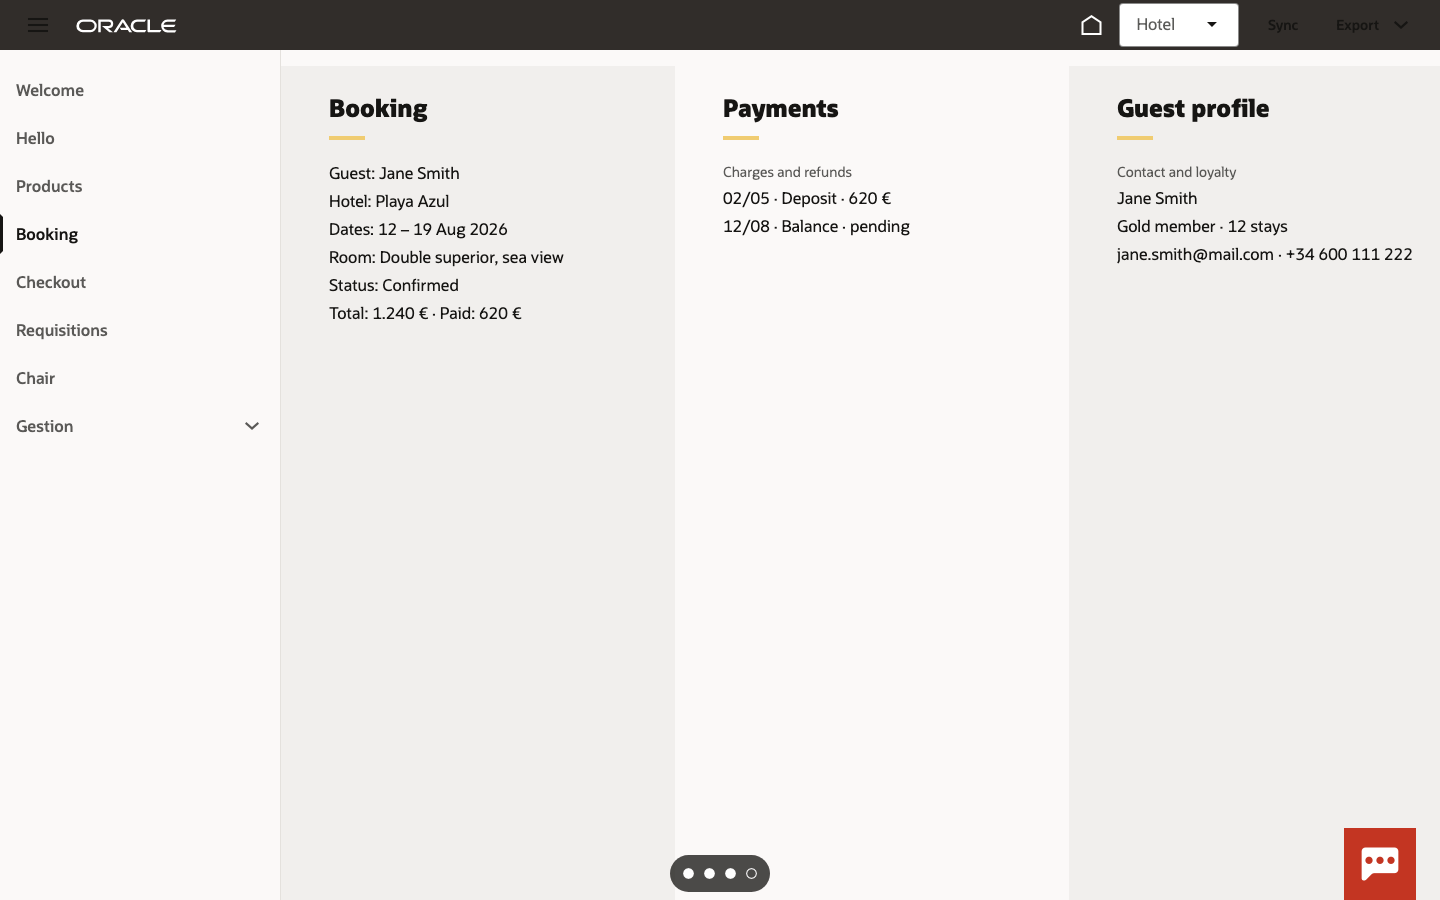
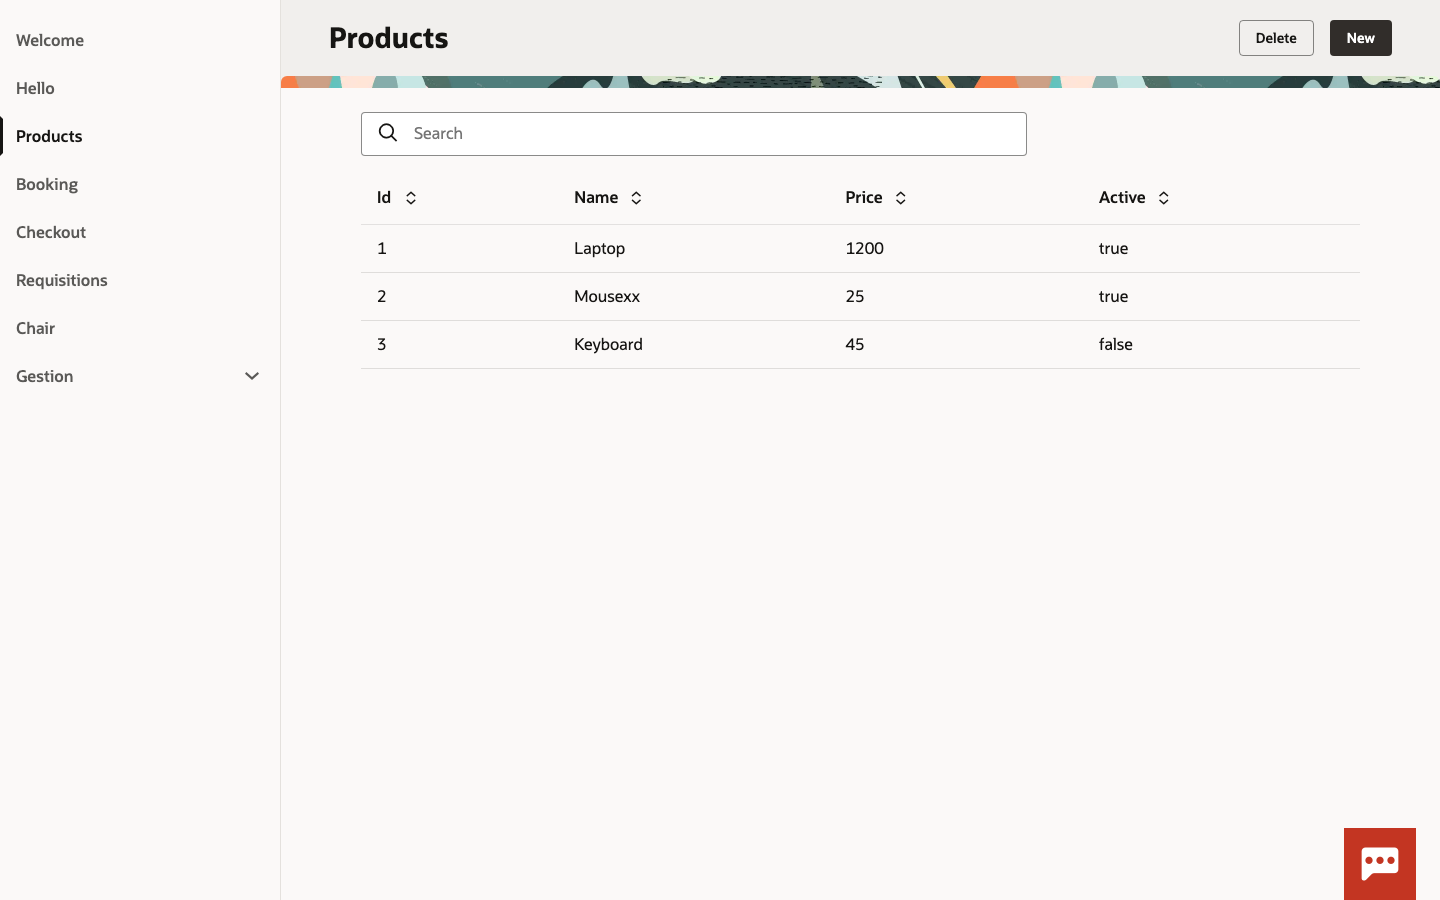
feat(vb): el shell adapta su chrome al formato de página (page-layout)
oj-sp-simple-ui-shell recibe page-layout derivado del pageWidth del wire
(fixed→fixedWidth, fullWidth, edgeToEdge) en cada navegación/acción — el chat
FAB y demás chrome del shell se adaptan (11x en fixed, 7x en edge-to-edge),
sin tocar el ancho del contenido.

diff --git a/.dev/vb/mateu-vb/webApps/vbredwoodapp/pages/shell-page-chains/onMateuNavigate.js b/.dev/vb/mateu-vb/webApps/vbredwoodapp/pages/shell-page-chains/onMateuNavigate.js
@@ -172,6 +172,9 @@ define([
       $application.variables.mateuBannerKeys = banners.map((banner) => banner.id);
       // 1.6: anatomía pageWidth del contexto host
       const pageStyle = bridge.pageStyleOf(host);
+      // el shell adapta su chrome (p.ej. el chat FAB) al formato de página
+      const pw = (host && host.pageWidth) || 'fixed';
+      $application.variables.mateuShellPageLayout = pw === 'fixed' ? 'fixedWidth' : pw;
       $application.variables.mateuPageMaxWidth = pageStyle.maxWidth;
       $application.variables.mateuPageMargin = pageStyle.margin;
       $application.variables.mateuPagePadding = pageStyle.padding;

diff --git a/.dev/vb/mateu-vb/webApps/vbredwoodapp/flows/main/pages/main-start-page-chains/runMateuAction.js b/.dev/vb/mateu-vb/webApps/vbredwoodapp/flows/main/pages/main-start-page-chains/runMateuAction.js
@@ -138,6 +138,8 @@ define([
       const integratedHeader = !!($application.variables.mateuWizard || welcome
         || overviewProjection || listingSummary || $application.variables.mateuFoldout);
       $application.variables.mateuPageHeader = integratedHeader ? null : { title: summary.title };
+      const pwAfter = (hostAfter && hostAfter.pageWidth) || 'fixed';
+      $application.variables.mateuShellPageLayout = pwAfter === 'fixed' ? 'fixedWidth' : pwAfter;
       $application.variables.mateuDirty = false;
 
       // toast con el patrón del starter: variable + open() del oj-sp-messages-toast local

diff --git a/.dev/vb/mateu-vb/webApps/vbredwoodapp/pages/shell-page.html b/.dev/vb/mateu-vb/webApps/vbredwoodapp/pages/shell-page.html
@@ -2,7 +2,7 @@
      por el componente). El contenido del starter (banner, toast, router) va en el slot
      stretchingContents. Cero HTML/CSS propio: solo composición de componentes oj-sp. -->
 
-<oj-sp-simple-ui-shell id="shell">
+<oj-sp-simple-ui-shell id="shell" page-layout="[[ $application.variables.mateuShellPageLayout ]]">
 
   <oj-sp-global-header slot="globalHeader" id="globalHeader">
     <!-- HAMBURGUER_MENU: la hamburguesa ABRE el navigator-drawer izquierdo (no un dropdown) -->

diff --git a/.dev/vb/DESIGN-NOTES.md b/.dev/vb/DESIGN-NOTES.md
@@ -513,7 +513,10 @@ utility classes: oj-bg-neutral-0 #FFF · oj-bg-body/neutral-10 #FBF9F8 · neutra
 neutral-30 #F1EFED. **Navigator a toda altura**: `oj-drawer-layout` no crece solo
 (flex 0 1 auto → alto del contenido, el menú se cortaba en páginas cortas) — `style="flex: 1
 1 auto"` en el elemento (pageContent/oj-web-applayout-page ya es flex column de 100%), mismo
-mecanismo inline que el `min-width:0` de oj-vb-content.
+mecanismo inline que el `min-width:0` de oj-vb-content. **pageLayout del shell**: `oj-sp-simple-ui-shell`
+adapta su chrome (tamaño del chat FAB, etc.) a `page-layout` (fixedWidth/fullWidth/edgeToEdge)
+— se alimenta del `pageWidth` del wire por página (`mateuShellPageLayout`, fixed→fixedWidth)
+en ambos chains; no constriñe el contenido (nuestro container sigue mandando en el ancho).
 
 ## Arquetipos Welcome / General Overview / Item Overview — HECHOS (pendiente de verificación)
 
